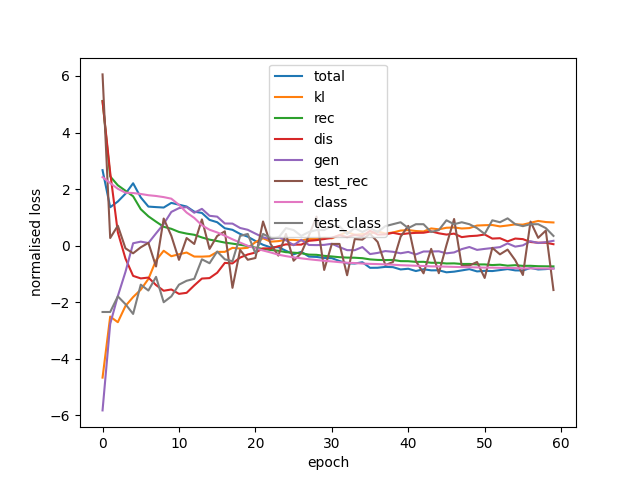
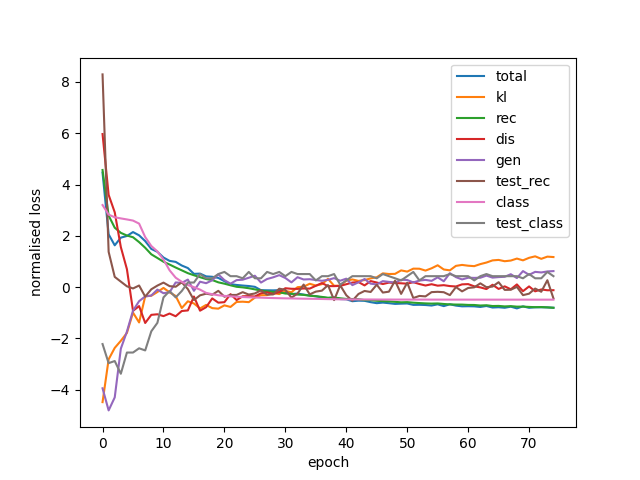
show gtsrb

diff --git a/GTSRB/Model/CVAE_GAN.py b/GTSRB/Model/CVAE_GAN.py
@@ -199,41 +199,44 @@ class CVAE(nn.Module):
 
 		return z
 
+	# def loss(self, rec_x, x, mu, logVar):
+	# 	#Total loss is BCE(x, rec_x) + KL
+	# 	BCE = F.binary_cross_entropy(rec_x, x, size_average=False)  #not averaged over mini-batch if size_average=FALSE and is averaged if =True 
+	# 	#(might be able to use nn.NLLLoss2d())
+	# 	KL = 0.5 * torch.sum(mu ** 2 + torch.exp(logVar) - 1. - logVar) #0.5 * sum(1 + log(var) - mu^2 - var)
+	# 	return BCE/ (x.size(2) ** 2), KL / mu.size(1)
 	def loss(self, rec_x, x, mu, logVar):
-		#ssim=ssim_package.SSIM().to(self.device)
-		#Total loss is BCE(x, rec_x) + KL
-		BCE = F.binary_cross_entropy(rec_x, x, size_average=False)  #not averaged over mini-batch if size_average=FALSE and is averaged if =True 
+		ssim=ssim_package.SSIM().to(self.device)
+		BCE = F.binary_cross_entropy(rec_x, x, size_average=False)
 		#MSE = F.mse_loss(rec_x, x, size_average=False)
-		#SSIM= 5*(1-ssim(rec_x,x))/2
-		#(might be able to use nn.NLLLoss2d())
+		SSIM= 100*(1-ssim(rec_x,x))/2
 		KL = 0.5 * torch.sum(mu ** 2 + torch.exp(logVar) - 1. - logVar) #0.5 * sum(1 + log(var) - mu^2 - var)
-		# return (BCE+MSE) / (x.size(2) ** 2)+SSIM, KL / mu.size(1)
-		return BCE/ (x.size(2) ** 2), KL / mu.size(1)
+		return BCE/ (x.size(2) ** 2)+SSIM, KL / mu.size(1)
 	
-	# def caculate_difference(self,x,y,class_nums):
-	# 	x=x.to(self.device)
-	# 	y=y.to(self.device)
-	# 	mu, log_var, rec_y = self.encode(x)
-	# 	z = self.re_param(mu, log_var)
-	# 	# 解码器重构x
-	# 	rec_x = self.decode(rec_y, z)
-	# 	# 解码器用标签重构x
-	# 	one_hot_y= torch.eye(class_nums)[torch.LongTensor(y.data.cpu().numpy())].type_as(z)
-	# 	dec_x = self.decode(one_hot_y,z)
-	# 	diff=rec_x-dec_x
-	# 	max_min_diff=(diff - diff.min()) / (diff.max() - diff.min()).detach()
-	# 	return max_min_diff
 	def caculate_difference(self,x,y,class_nums):
 		x=x.to(self.device)
 		y=y.to(self.device)
 		mu, log_var, rec_y = self.encode(x)
 		z = self.re_param(mu, log_var)
+		# 解码器重构x
+		rec_x = self.decode(rec_y, z)
 		# 解码器用标签重构x
 		one_hot_y= torch.eye(class_nums)[torch.LongTensor(y.data.cpu().numpy())].type_as(z)
 		dec_x = self.decode(one_hot_y,z)
-		diff=x-dec_x
+		diff=rec_x-dec_x
 		max_min_diff=(diff - diff.min()) / (diff.max() - diff.min()).detach()
 		return max_min_diff
+	# def caculate_difference(self,x,y,class_nums):
+	# 	x=x.to(self.device)
+	# 	y=y.to(self.device)
+	# 	mu, log_var, rec_y = self.encode(x)
+	# 	z = self.re_param(mu, log_var)
+	# 	# 解码器用标签重构x
+	# 	one_hot_y= torch.eye(class_nums)[torch.LongTensor(y.data.cpu().numpy())].type_as(z)
+	# 	dec_x = self.decode(one_hot_y,z)
+	# 	diff=x-dec_x
+	# 	max_min_diff=(diff - diff.min()) / (diff.max() - diff.min()).detach()
+	# 	return max_min_diff
 
 
 

diff --git a/GTSRB/Utils/DaGmmUtil.py b/GTSRB/Utils/DaGmmUtil.py
@@ -203,7 +203,7 @@ def test_DaGmm(selected_classes,
     estimator=PyTorchClassifier(model=target_model,loss=nn.CrossEntropyLoss(),
                                     optimizer=optimizer,
                                     input_shape=(3,64,64), nb_classes=2,clip_values=clip_values)
-    attacker=Attck_method(estimator=estimator,eps=0.2)
+    attacker=Attck_method(estimator=estimator,eps=0.1)
 
     # 对抗样本生成器
     ae_generator=Adversarial_Examples_Generator(
@@ -226,6 +226,23 @@ def test_DaGmm(selected_classes,
     advDataset=TensorDataset(adv_imgs,adv_labels)
     rawLoader=DataLoader(dataset=rawDataset,batch_size=batch_size,shuffle=False)
     advLoader=DataLoader(dataset=advDataset,batch_size=batch_size,shuffle=False)
+
+    x_normal,y_normal=next(iter(rawLoader))
+    diff_normal=gen_model.caculate_difference(x_normal,y_normal,len(selected_classes))
+    drawGTSRBImages(diff_normal.cpu().detach().numpy(),
+			    	        y_normal.cpu(),
+                            test_class_name_mapping,
+				            save_path=join("E:\Project\ZLTProgram\Images\detection_result","GTSRB_{}_{}_diffnormal.png".format(model_name,str(type(attacker).__name__))),
+                            overwrite=True
+				            )
+    x_adv,y_adv=next(iter(advLoader))
+    diff_adv=gen_model.caculate_difference(x_adv,y_adv,len(selected_classes))
+    drawGTSRBImages(diff_adv.cpu().detach().numpy(),
+			    	        y_adv.cpu(),
+                            test_class_name_mapping,
+				            save_path=join("E:\Project\ZLTProgram\Images\detection_result","GTSRB_{}_{}_diffadv.png".format(model_name,str(type(attacker).__name__))),
+                            overwrite=True
+				            )
 
     test_energy = []
     test_labels = []

diff --git a/GTSRB/Utils/VaeModelTrainer.py b/GTSRB/Utils/VaeModelTrainer.py
@@ -198,6 +198,11 @@ def train_cVAE_GAN( selected_classes,
         xTest = xTest.to(device).data
         yTest = yTest.to(device)
         outputs, outMu, outLogVar, outY = cvae(xTest)
+        yDiff = torch.randint(0, len(selected_classes)-1, yTest.shape)
+
+        diff1=cvae.caculate_difference(xTest,yTest,len(selected_classes))
+        diff2=cvae.caculate_difference(xTest,yDiff,len(selected_classes))  
+
         if (epoch+1)%5==0:
             drawGTSRBImages(xTest.cpu().numpy(),
 			    	        yTest.cpu(),
@@ -211,6 +216,18 @@ def train_cVAE_GAN( selected_classes,
 				            save_path=join(result_dir,"GTSRB_{}_output{}.png".format(len(selected_classes),epoch)),
                             overwrite=True
 				            )
+            # drawGTSRBImages(diff1.cpu().detach().numpy(),
+			#     	        yTest.cpu(),
+            #                 test_class_name_mapping,
+			# 	            save_path=join(result_dir,"GTSRB_{}_diffsame{}.png".format(len(selected_classes),epoch)),
+            #                 overwrite=True
+			# 	            )
+            # drawGTSRBImages(diff2.cpu().detach().numpy(),
+			#     	        yDiff.cpu(),
+            #                 test_class_name_mapping,
+			# 	            save_path=join(result_dir,"GTSRB_{}_diffrand{}.png".format(len(selected_classes),epoch)),
+            #                 overwrite=True
+			# 	            )
 
         (recLossTest), klLossTest = vae_loss_fn(rec_x=outputs, x=xTest, mu=outMu, logVar=outLogVar)
         maxVal, predLabel = torch.max(outY, 1)

diff --git a/GTSRB/train_and_test_DaGmm.py b/GTSRB/train_and_test_DaGmm.py
@@ -9,8 +9,9 @@ model_names=["resnet18","vgg19","densenet169","mobilenet"]
 attackers=[FastGradientMethod,BasicIterativeMethod,ProjectedGradientDescent]
 cvae_dir="F:\ModelAndDataset\model\GTSRB\cVAE_GAN"
 dagmm_dir="F:\ModelAndDataset\model\GTSRB\DAGMM"
-selected_classes= [2,7,9,11,14,15,16,32,35,41]
-train=True
+# selected_classes= [2,7,9,11,14,15,16,32,35,41]
+selected_classes= [7,13,17,32,35]
+train=False
 #===============Train====================
 if train:
    cvae = CVAE(nz=100,
@@ -20,9 +21,9 @@ if train:
 			   g_spectral_norm=False,
 			   CBN=True,
 			   fSize=64,
-            numLabels=10,
+            numLabels=len(selected_classes),
 			   device=device)
-   cvae.load_params(cvae_dir,10)
+   cvae.load_params(cvae_dir,len(selected_classes))
    cvae.to(device)
    train_DaGmm(selected_classes=selected_classes,
                gen_model=cvae,
@@ -40,9 +41,9 @@ cvae = CVAE(nz=100,
 			   g_spectral_norm=False,
 			   CBN=True,
 			   fSize=64,
-            numLabels=10,
+            numLabels=len(selected_classes),
 			   device=device)
-cvae.load_params(cvae_dir,10)
+cvae.load_params(cvae_dir,len(selected_classes))
 cvae.to(device)
 dagmm=DAGMM(3,64,64)
 dagmm.load_params(dagmm_dir)

diff --git a/GTSRB/trainVAEModel.py b/GTSRB/trainVAEModel.py
@@ -2,15 +2,17 @@ import sys
 sys.path.append("E:/Project/ZLTProgram/GTSRB")
 from Utils.VaeModelTrainer import train_cVAE_GAN
 root="F:\ModelAndDataset\data"
-#selected_classes=[2,7,9,11,14,15,27,29,30,35]
-selected_classes= [2,7,9,11,14,15,16,32,35,41]
 
+# selected_classes= [2,7,9,11,14,15,16,32,35,41]
+selected_classes= [7,13,17,32,35]
 save_model_dir='F:\ModelAndDataset\model\GTSRB\cVAE_GAN'# 模型参数存放目录
 result_dir = 'E:/Project/ZLTProgram/Images/cvae_gan_gtsrb'# 实验结果存放目录
 
 train_cVAE_GAN(root=root,
                 selected_classes=selected_classes,
                 save_model_dir=save_model_dir,
-                Epochs=60,
+                nz=100,
+                fsize=64,
+                Epochs=75,
                 result_dir=result_dir
                )

diff --git a/GTSRB/trainTargetModel.py b/GTSRB/trainTargetModel.py
@@ -8,7 +8,8 @@ save_dir="F:\ModelAndDataset\model\GTSRB"
 
 model_names=['resnet18','vgg19','densenet169','mobilenet']
 #selected_classes=[2,7,9,11,14,15,27,29,30,35]
-selected_classes= [2,7,9,11,14,15,16,32,35,41]
+# selected_classes= [2,7,9,11,14,15,16,32,35,41]
+selected_classes= [7,13,17,32,35]
 
 
 for model_name in model_names:
